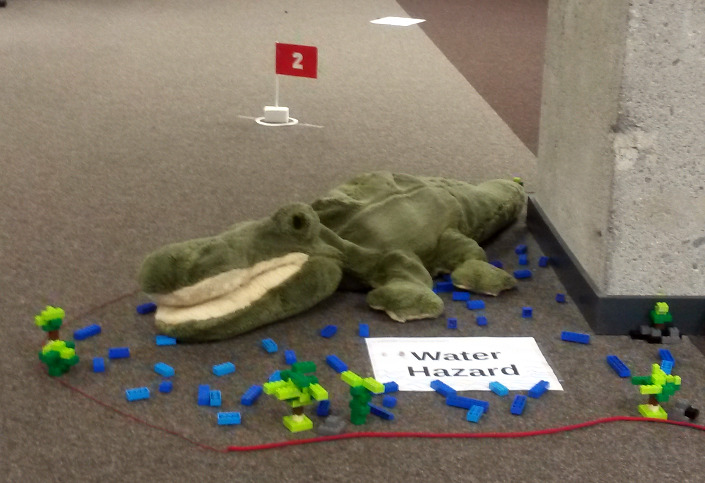
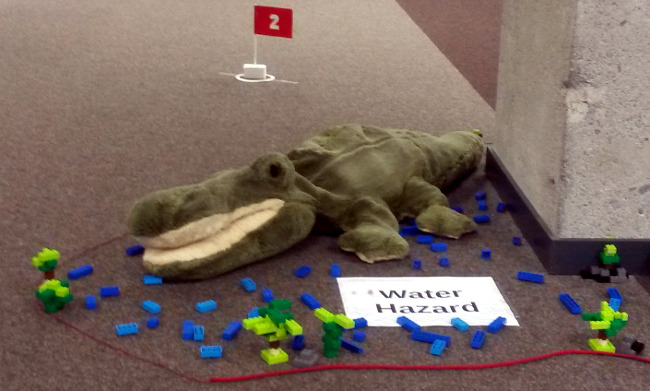
office golf: new photo

diff --git a/posts/hackweek-2014-technology-hackweek-masters-office-golf.rst b/posts/hackweek-2014-technology-hackweek-masters-office-golf.rst
@@ -38,7 +38,6 @@ We congratulate Evans (1st place, right) and Bastian (2nd, left)!
 .. image:: /images/hackweek-2014-office-golf-winners-20140612.jpg
 
 
-
 Our Office Golf Rules
 ---------------------
 * Office Golf consists of playing a ball with a putter from the teeing ground (marked by two blue tees) into the hole (white plastic ring) by successive strokes.
@@ -51,5 +50,10 @@ Our Office Golf Rules
 * The player may deem his ball unplayable at any place on the course. If the player deems his ball to be unplayable, he must, under penalty of one stroke, play a ball as nearly as possible at the spot from which the original ball was last played
 * At the end of the course, the strokes will be summarized.
 * The player with the least strokes wins. In case of a tie, the game goes on to make a decision between the participants.
+
+.. image:: /images/hackweek-2014-office-golf-christoph-hole2.jpg
+
+Obstacles ahead! --- Christoph at hole 2 of our Office Golf course.
+
 
 .. _the scorecard: /files/201405-technology-hackweek-office-golf-scorecard.pdf
